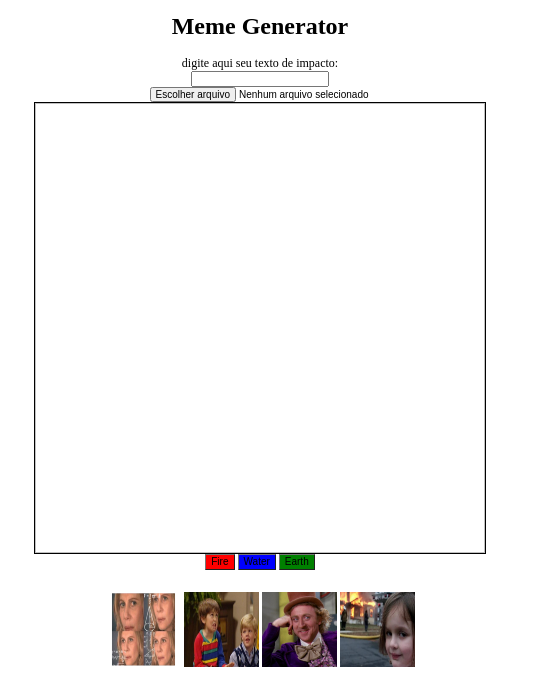
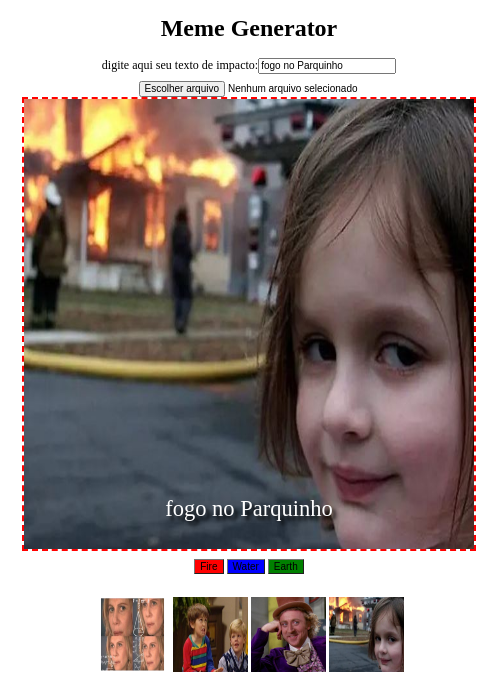
ajustes no css

diff --git a/style.css b/style.css
@@ -3,6 +3,10 @@ body {
   flex-direction: column;
   align-items: center;
 }
+label {
+  display: flex;
+  margin-bottom: 10px;
+}
 #text-input {
   display: block;
 }
@@ -13,6 +17,12 @@ body {
   z-index: 1;
   background-color: white;
   border: 1px solid black;
+  display: flex;
+  justify-content: center;
+}
+
+#buttons {
+  margin-top: 10px;
 }
 
 img {
@@ -28,6 +38,7 @@ p {
   z-index: 2;
   text-shadow: black 5px 5px 5px;
   position: absolute;
+  transform: translateY(500px);
 }
 
 #meme-collection {

diff --git a/index.html b/index.html
@@ -9,8 +9,10 @@
   </head>
   <body>
     <h1>Meme Generator</h1>
-    <label for="text-input">digite aqui seu texto de impacto:</label>
-    <input id="text-input" maxlength="60" />
+    <label for="text-input"
+      >digite aqui seu texto de impacto:
+      <input id="text-input" maxlength="60" />
+    </label>
     <input id="meme-insert" type="file" accept="image/*" />
     <div id="meme-image-container">
       <img id="meme-image" />
